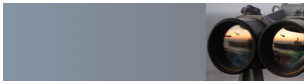
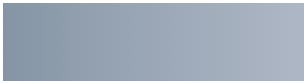
tweak

diff --git a/src/theme/style.css b/src/theme/style.css
@@ -152,7 +152,7 @@ h5 {font-size:10px}
 #newsletter {
 	width:309px;
 	height:86px;
-	background:url('images/newsletter.jpg') no-repeat top left;
+	background:url('images/monitor.png') no-repeat top left;
 	position:relative;
 	text-transform:uppercase
 	}
